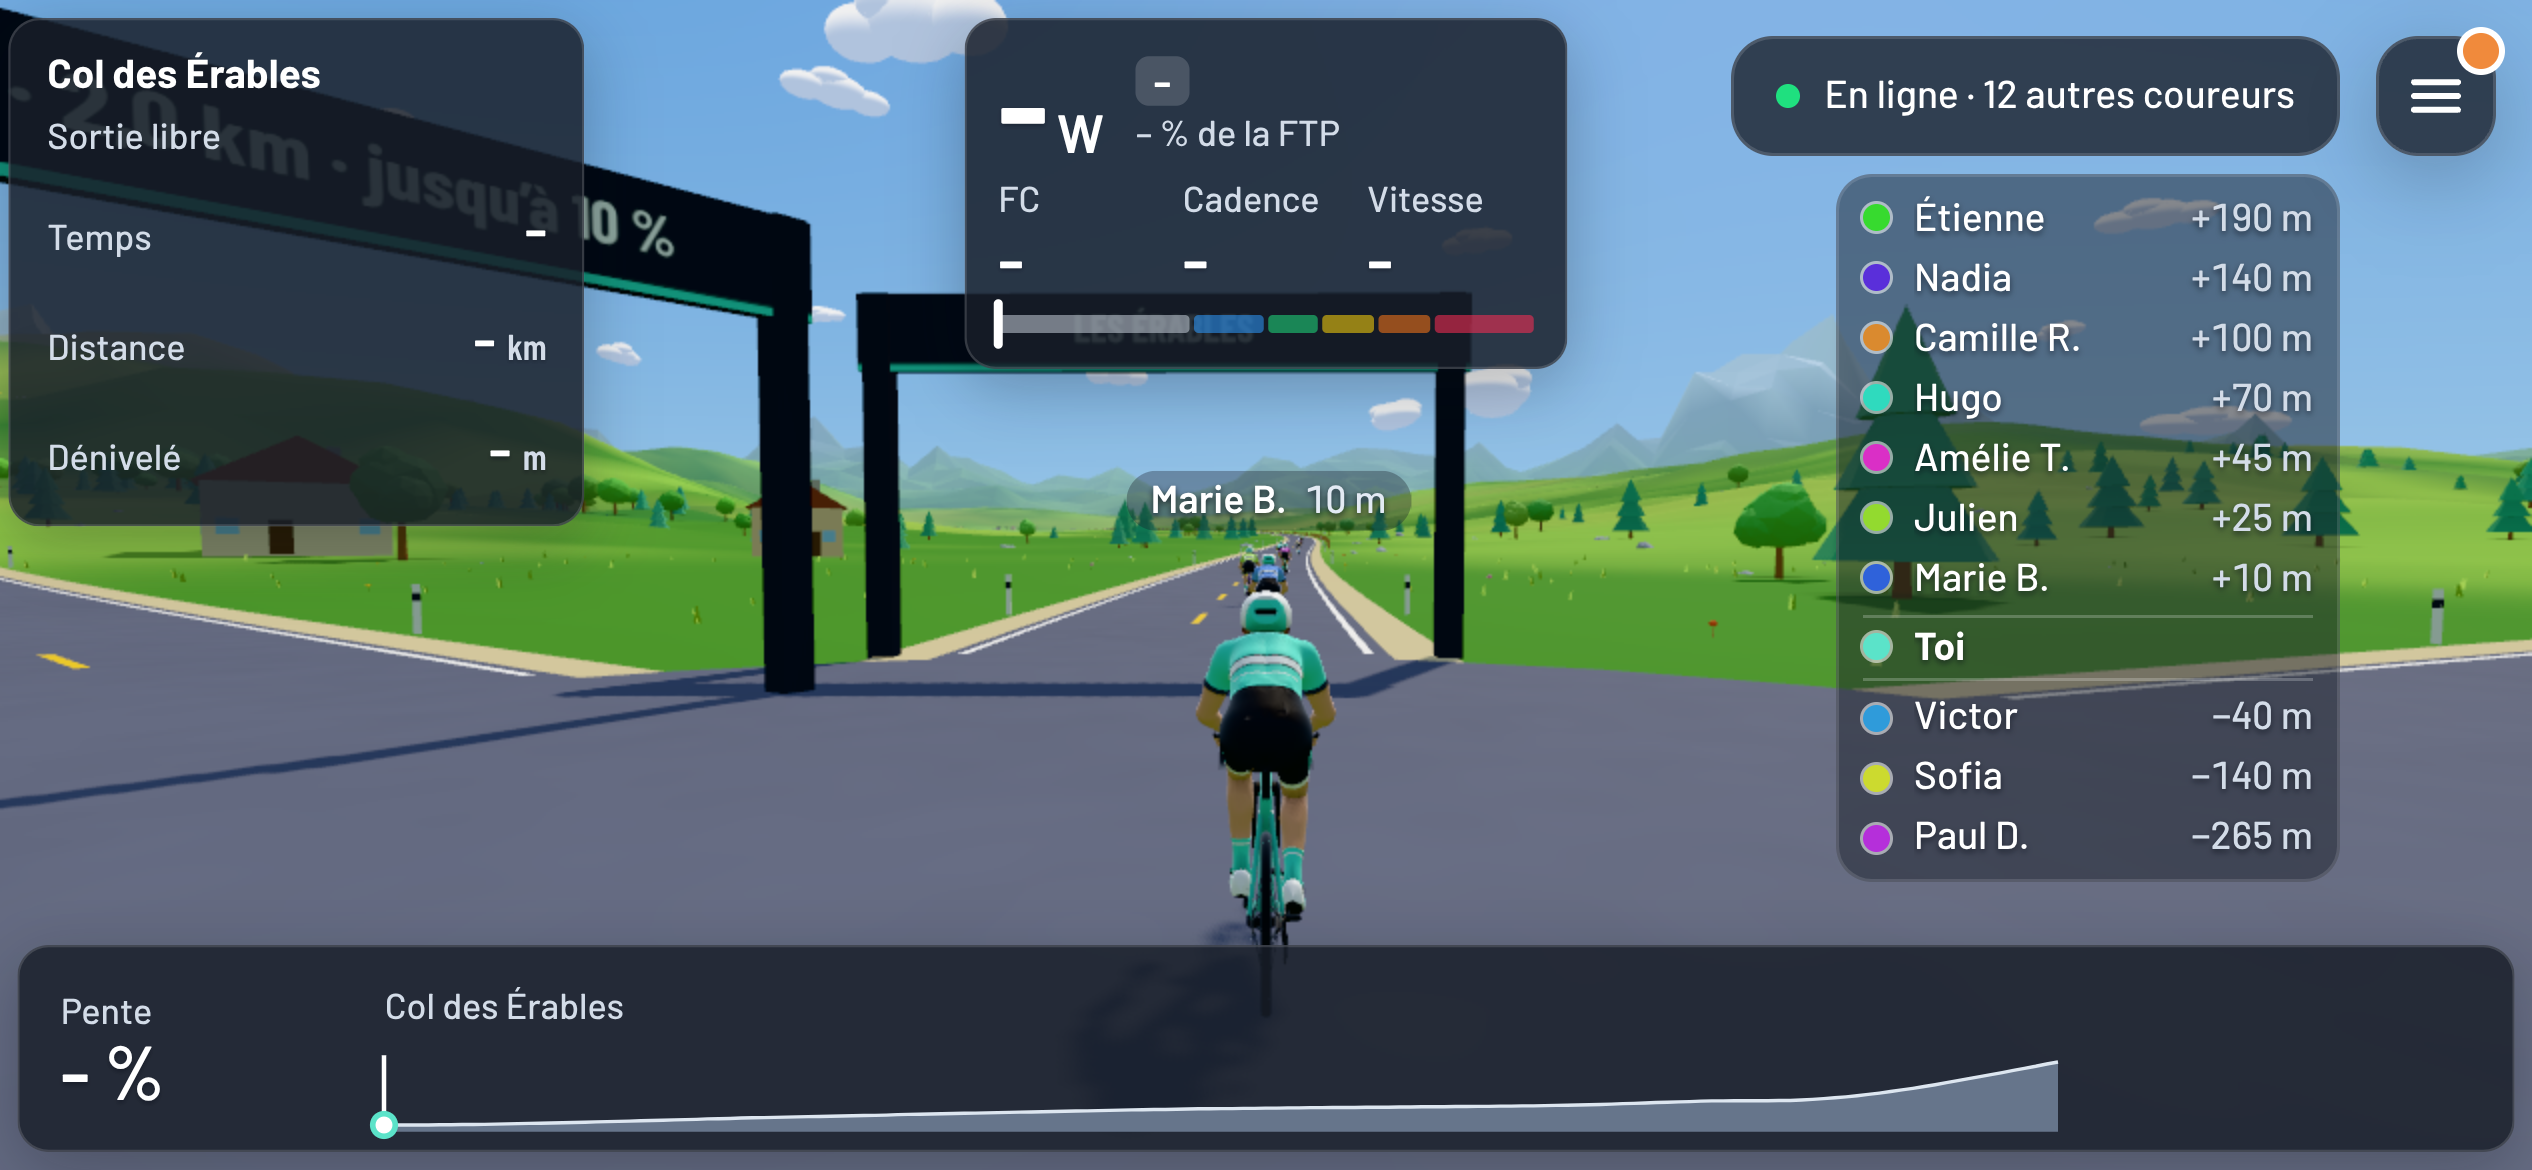
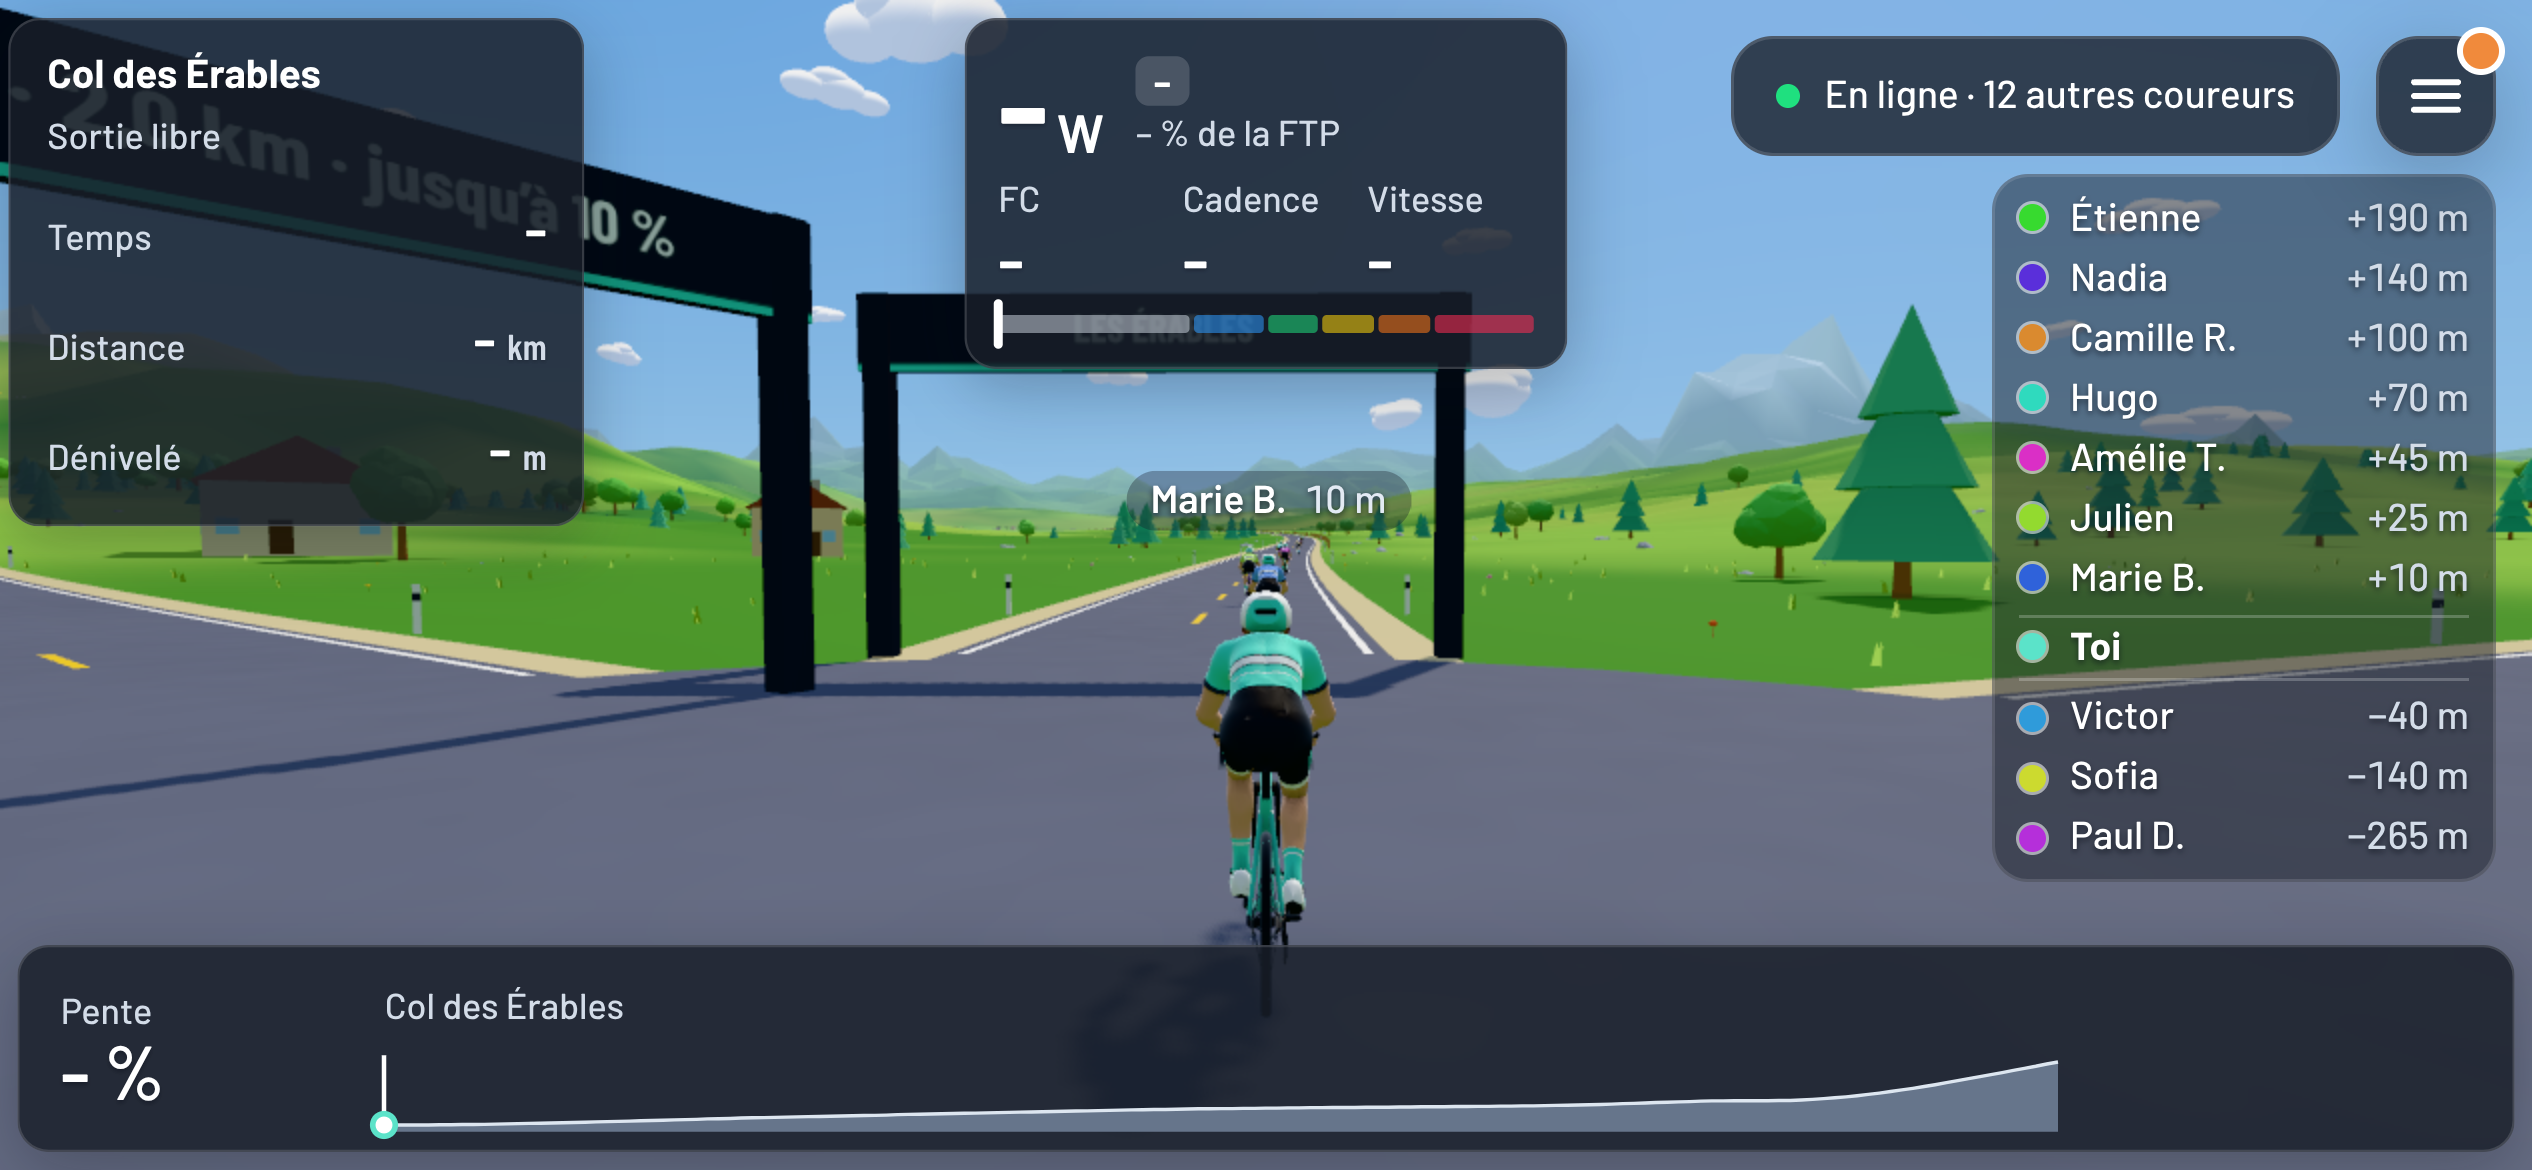
Encart des coureurs proches : collé au bord de l'écran sur téléphone couché
Même marge que le bouton du menu. Il ne se décale à gauche que lorsque les commandes de séance ou le sélecteur de
vitesse occupent la colonne du bord. Vérifié en iPhone 13 paysage 844 × 390, avec et sans les commandes de séance.

Claude-Session: https://claude.ai/code/session_01Fve4RrG8r9RJRgLhDurVGg

Changed region(s): [[0.7176, 0.1231, 0.9984, 0.7692]]

diff --git a/src/ui/sortie.css b/src/ui/sortie.css
@@ -171,7 +171,7 @@ html[data-notch='left'] .ride { --edge-r: 12px; }
 
 /*
  * Coureurs proches : jusqu'à 7 devant, le joueur, 3 derrière, de l'avant vers l'arrière. Sous le bouton du menu, au bord
- * droit ; sur téléphone couché, à gauche de la colonne de boutons. Verre léger : l'encart reste discret.
+ * droit ; sur téléphone couché, collé au bord comme le bouton du menu, et à gauche de la colonne de boutons quand elle est affichée. Verre léger : l'encart reste discret.
  */
 .ride-near {
   position: absolute; z-index: 2; top: calc(var(--edge-t) + 54px); right: var(--edge-r); width: 188px; box-sizing: border-box;
@@ -188,7 +188,9 @@ html[data-notch='left'] .ride { --edge-r: 12px; }
 .rn-me { font-weight: 700; margin: 2px 0; padding: 2px 0; border-block: 1px solid rgb(255 255 255 / .22); }
 .rn-me .rn-dot { background: #5BE3C9; }
 @media (pointer: coarse) and (orientation: landscape) and (max-height: 600px) {
-  .ride-near { top: calc(var(--edge-t) + 46px); right: calc(var(--edge-r) + 52px); width: 168px; padding: 4px 8px; }
+  .ride-near { top: calc(var(--edge-t) + 46px); right: var(--edge-r); width: 168px; padding: 4px 8px; }
+  /* Commandes de séance ou sélecteur de vitesse affichés : ils occupent la colonne du bord, l'encart passe à leur gauche. */
+  .ride:has(.ride-quick:not([hidden]), .ride-gears:not([hidden])) .ride-near { right: calc(var(--edge-r) + 52px); }
   .rn-row { min-height: 19px; }
   .ride-crowd { height: 40px; }
 }

diff --git a/docs/design/compte.md b/docs/design/compte.md
@@ -50,7 +50,8 @@ Développement local, 16 novembre 2026 (connexion de développement et trois rob
 | Connecté, téléphone couché (écran Appareils) | ![](captures/compte-connecte-telephone.png) |
 | Menu du compte | ![](captures/compte-menu.png) |
 | Autres coureurs sur la Sortie, ordinateur (12 robots immobiles : 8 devant, 4 derrière) | ![](captures/compte-autres-coureurs-ordinateur.png) |
-| Autres coureurs sur la Sortie, téléphone couché 844 × 390 (mêmes robots) | ![](captures/compte-autres-coureurs-telephone.png) |
+| Autres coureurs sur la Sortie, téléphone couché 844 × 390 (mêmes robots), encart collé au bord | ![](captures/compte-autres-coureurs-telephone.png) |
+| Idem avec les commandes de séance affichées : l'encart passe à leur gauche | ![](captures/compte-autres-coureurs-telephone-seance.png) |
 | Boîte du nom | ![](captures/compte-nom.png) |
 
 ## Développement
